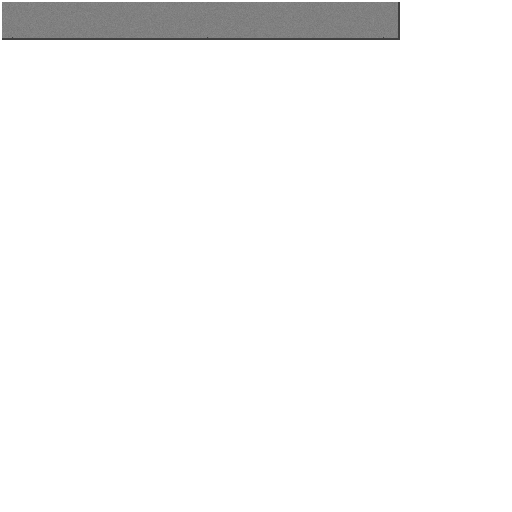
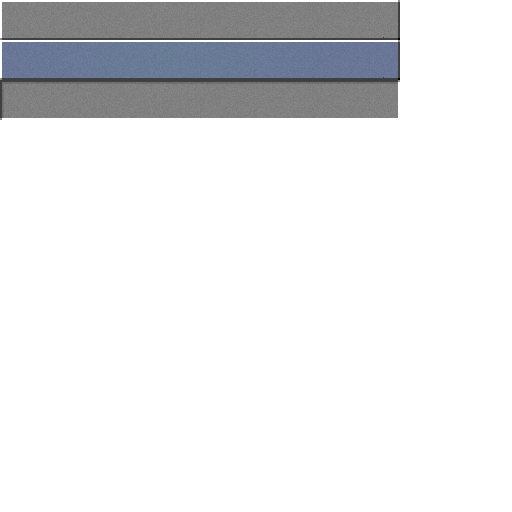
Commit 4.2
Changement mineurs...

Changed region(s): [[0.0, 0.0625, 0.7812, 0.25]]

diff --git a/src/net/xemnias/client/GuiButton.java b/src/net/xemnias/client/GuiButton.java
@@ -30,7 +30,12 @@ public class GuiButton extends GuiCompoment
 	
 	protected void render(GameContainer gc, CommunityGame cc, Graphics g)
 	{
-		drawTexturalQuad(g, cc.loader.getImageByName("gui.png"),0,0,400,40, x, y);
+		int i = 0;
+		if(isMouseOnIt(gc.getInput()))
+			i+=40;
+		drawTexturalQuad(g, cc.loader.getImageByName("gui.png"),0,i,400,40, x, y);
+		
+
 	}
 
 	protected void init(GameContainer gc, CommunityGame sbg)

diff --git a/src/net/xemnias/client/Map.java b/src/net/xemnias/client/Map.java
@@ -16,6 +16,8 @@ public class Map
 	private String Name;
 	private String pathToDirectory;
 	
+	private FileReader reader;
+	
 	private int[][] map;
 	private StringBuilder str;
 	
@@ -60,7 +62,7 @@ public class Map
 		File fmap = new File(pathToDirectory+Name);
 		try 
 		{
-			FileReader reader = new FileReader(fmap);
+			reader = new FileReader(fmap);
 			
 	         for(int i = 0; i < 19; i++)
 	         {

diff --git a/src/net/xemnias/client/Screen.java b/src/net/xemnias/client/Screen.java
@@ -39,6 +39,7 @@ public class Screen extends BasicGameState
 	public void update(GameContainer arg0, StateBasedGame arg1, int arg2) throws SlickException
 	{
 		currentstate.update(arg0, arg2, parent);
+		System.out.println(arg2);
 		if(isDialogOpen)
 		{
 			dialog.update(arg0,parent,arg2);

diff --git a/src/net/xemnias/client/View.java b/src/net/xemnias/client/View.java
@@ -12,8 +12,8 @@ public class View
 		//this.render = render;
 		xPos = 150;
 		yPos = 80;
-		width = 64+24;
-		height = 64+24;
+		width = 512;
+		height = 380;
 	}
 
 	public boolean isOnScreen(Tile tile)

diff --git a/src/net/xemnias/client/CommunityGame.java b/src/net/xemnias/client/CommunityGame.java
@@ -42,7 +42,6 @@ public class CommunityGame extends StateBasedGame
 		try {
 			initGame(arg0);
 		} catch (IOException e) {
-			// TODO Auto-generated catch block
 			e.printStackTrace();
 		}
 		
